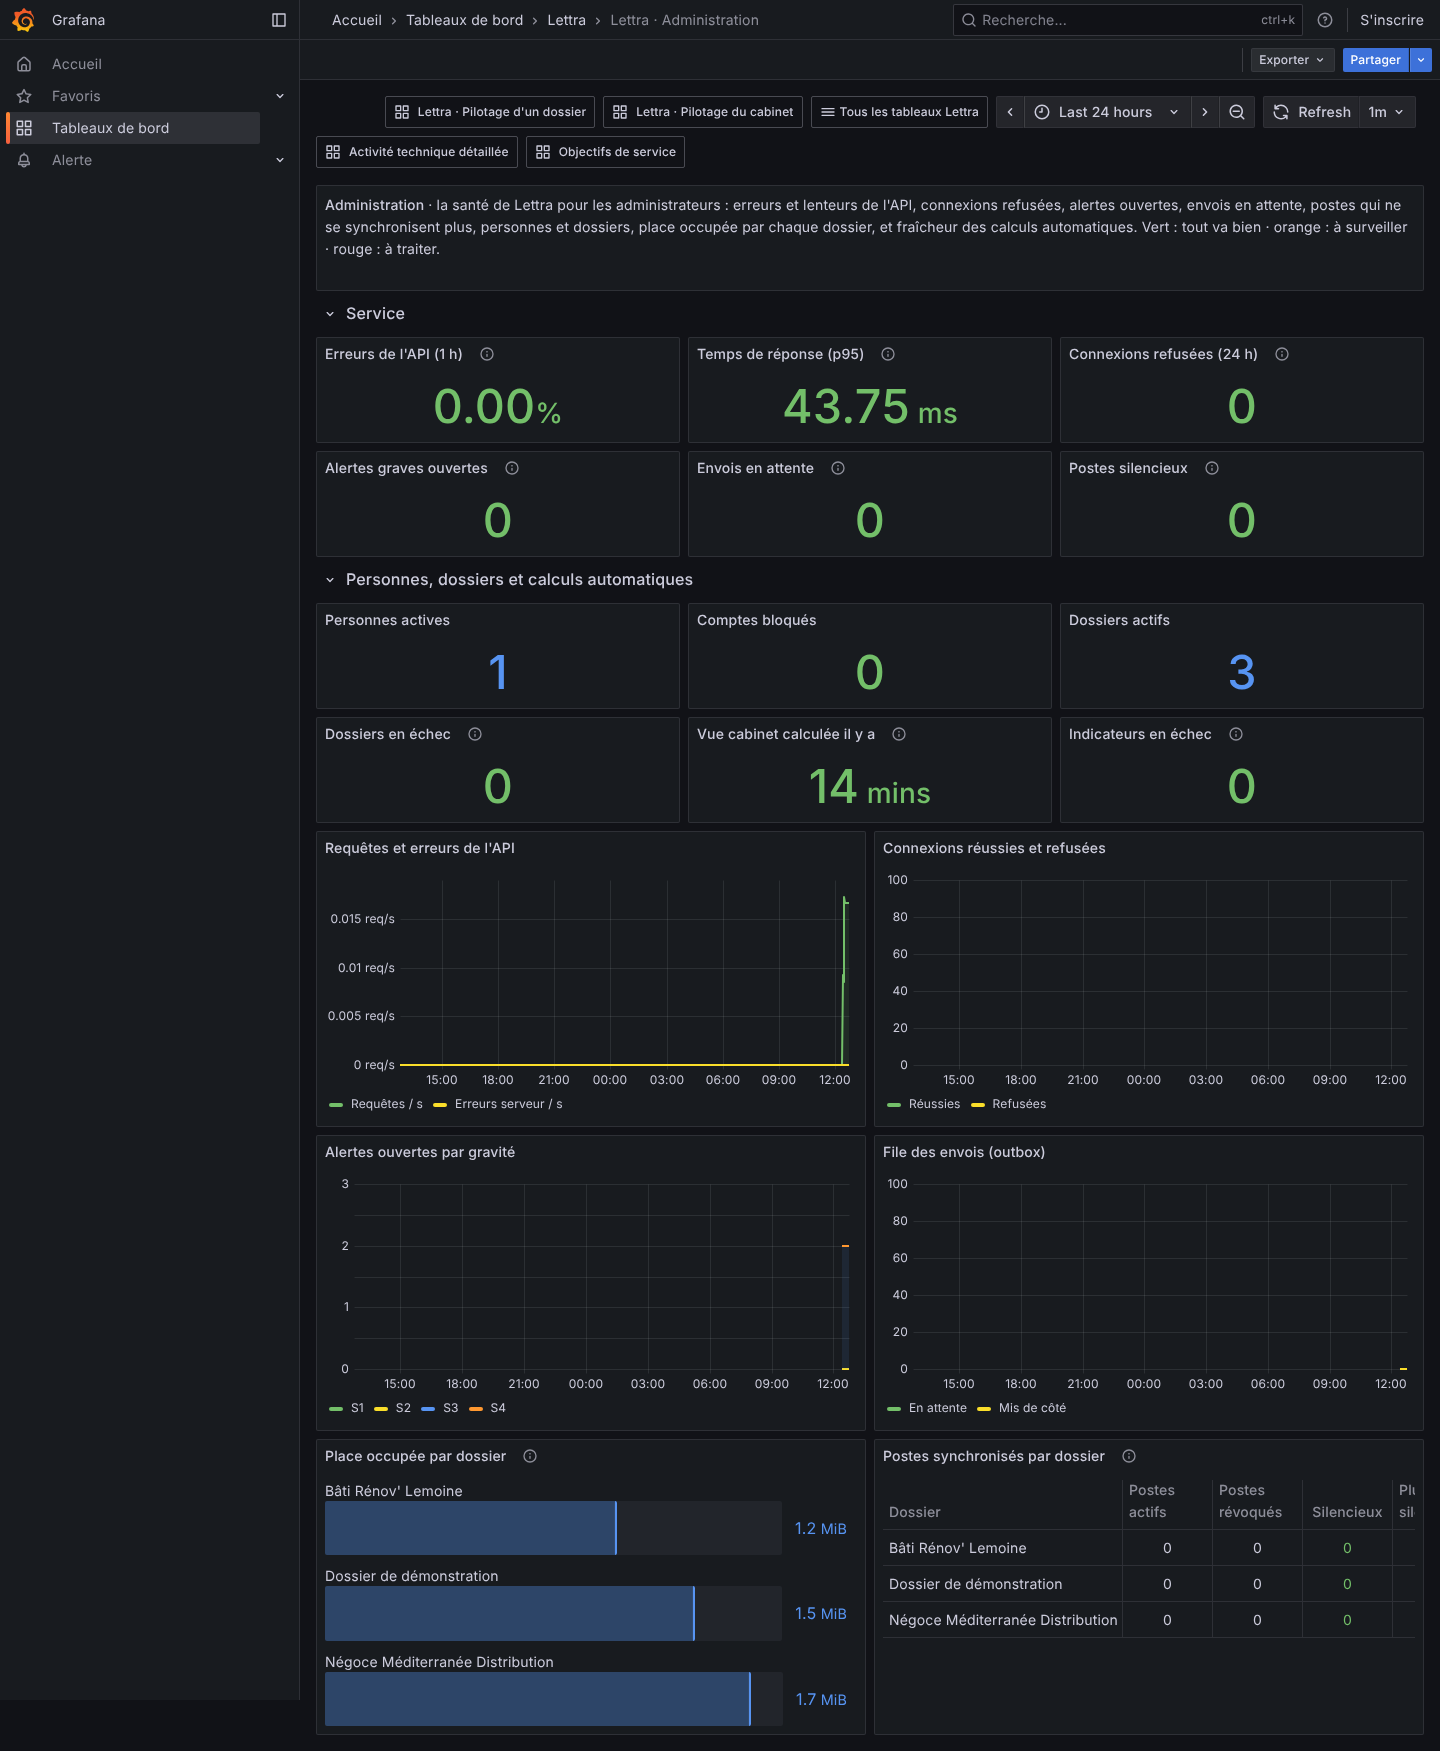
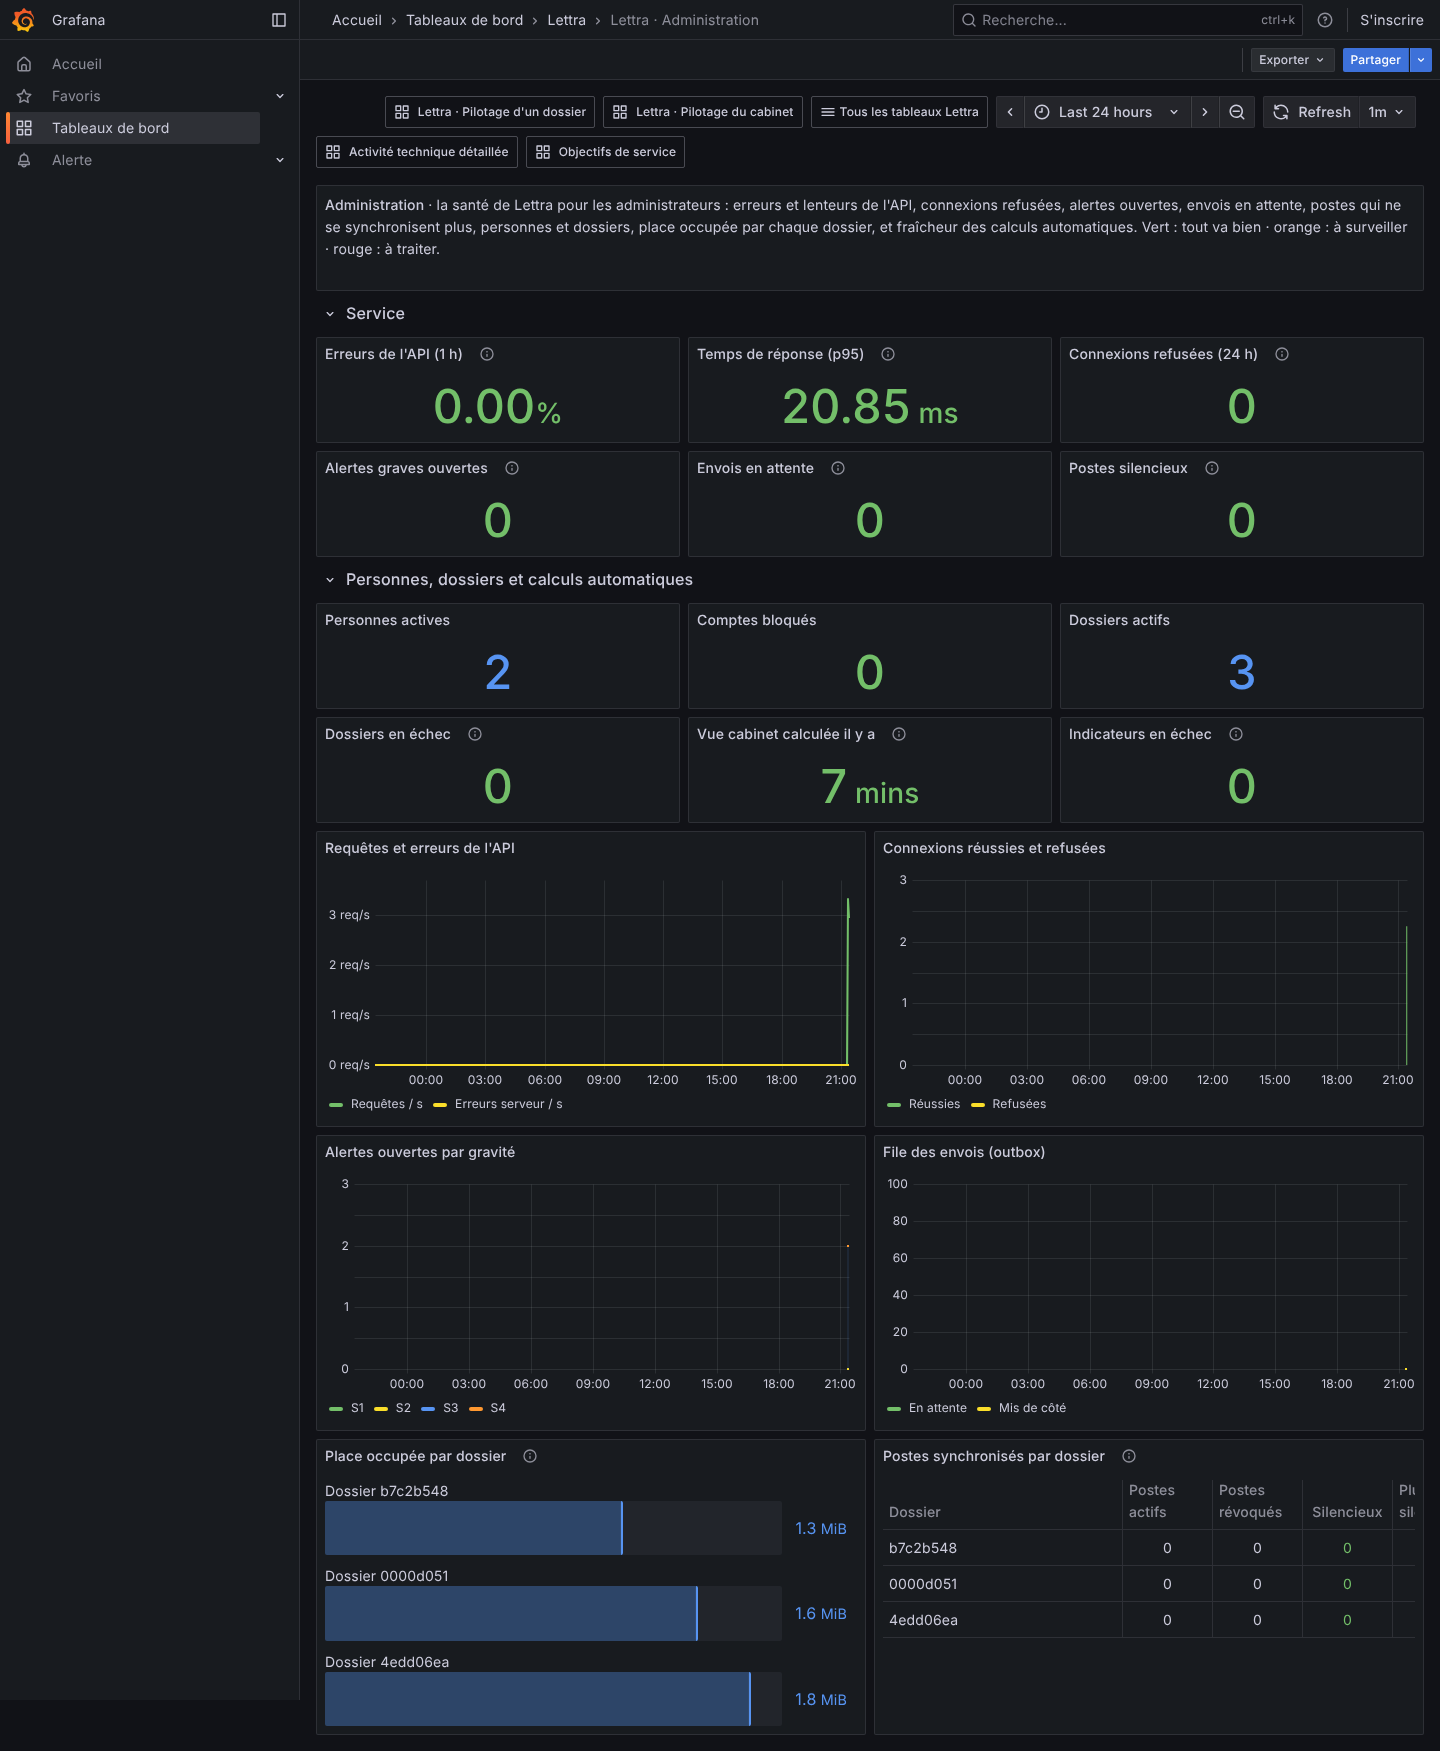
KPI : plus aucun nom de dossier ni de cabinet envoyé à Grafana
Le nom d'une entreprise individuelle est celui d'une personne (décision du
DPO, 24/10/2026). L'exposition Prometheus ne publie plus que dossier_id ; les
tableaux Grafana affichent une référence courte (8 derniers caractères de
l'identifiant, via label_replace), que le menu « Tableaux de bord » de Lettra
montre aussi sous chaque nom et retrouve à la recherche.

Claude-Session: https://claude.ai/code/session_0195ENUxDgLz9ctjxd3HeSJj

diff --git a/src/Presentation/Lettra.UI.Shared/wwwroot/lettra-pilotage.css b/src/Presentation/Lettra.UI.Shared/wwwroot/lettra-pilotage.css
@@ -31,6 +31,7 @@
 
 /* Le nom du dossier est l'en-tête de sa ligne : texte courant, pas le style des en-têtes de colonnes. */
 .lt-pilotage-table tbody th[scope="row"] { background: transparent; color: var(--color-fg); font-size: var(--text-sm); font-weight: var(--weight-medium); letter-spacing: normal; text-transform: none; text-align: left; overflow-wrap: anywhere; }
+.lt-pilotage-ref { display: block; color: var(--color-fg-muted); font-size: var(--text-xs); font-weight: var(--weight-regular); font-variant-numeric: tabular-nums; }
 .lt-pilotage-filters { flex-wrap: wrap; gap: var(--space-3); }
 .lt-pilotage-tools { display: flex; flex-wrap: wrap; align-items: center; gap: var(--space-2); width: 100%; }
 .lt-pilotage-tools .lettra-input { width: 100%; }

diff --git a/src/Core/Lettra.Application/Features/Kpi/KpiMetrics.cs b/src/Core/Lettra.Application/Features/Kpi/KpiMetrics.cs
@@ -39,7 +39,7 @@ public static class KpiMetrics
     public const string CollectionFailures = "lettra_kpi_collect_failures";
     public const string CollectedAt = "lettra_kpi_collected_at_seconds";
 
-    /// <summary>Étiquettes propres aux indicateurs (en plus de <c>dossier_id</c>, <c>dossier</c> et <c>cabinet</c>).</summary>
+    /// <summary>Étiquettes propres aux indicateurs (en plus de <c>dossier_id</c>).</summary>
     public static class Labels
     {
         /// <summary>Mois civil, <c>2026-10</c>.</summary>
@@ -57,7 +57,7 @@ public static class KpiMetrics
 
     /// <summary>
     /// Indicateurs de gestion des dossiers (ventes, devis, vue cabinet), retirés quand une cellule SaaS ne publie que
-    /// l'exploitation. Le nom du dossier (<see cref="DossierInfo"/>) reste : les tailles et les postes en ont besoin.
+    /// l'exploitation. La liste des dossiers suivis (<see cref="DossierInfo"/>) reste : les tailles et les postes en ont besoin.
     /// </summary>
     public static IReadOnlySet<string> Business { get; } = new HashSet<string>(StringComparer.Ordinal)
     {
@@ -69,7 +69,7 @@ public static class KpiMetrics
     /// <summary>Le texte d'aide de chaque indicateur publié (ligne <c># HELP</c> de Prometheus).</summary>
     public static IReadOnlyDictionary<string, string> Help { get; } = new Dictionary<string, string>(StringComparer.Ordinal)
     {
-        [DossierInfo] = "Dossier suivi (toujours 1) : relie l'identifiant au nom du dossier et du cabinet.",
+        [DossierInfo] = "Dossier suivi (toujours 1), désigné par son seul identifiant : aucun nom de dossier ni de cabinet.",
         [RevenueIndex] = "Chiffre d'affaires HT du mois, en indice : 100 = mois moyen des 12 derniers mois.",
         [InvoicesIssued] = "Factures et acomptes émis dans le mois (hors avoirs).",
         [RevenueTrend] = "Évolution du chiffre d'affaires HT des 3 derniers mois complets par rapport aux 3 mois d'avant.",

diff --git a/tests/Lettra.Observability.Tests/KpiExpositionTests.cs b/tests/Lettra.Observability.Tests/KpiExpositionTests.cs
@@ -12,7 +12,7 @@ public sealed class KpiExpositionTests
     private static readonly KpiDossier Named = new(Dossier, "Boulangerie \"Le Fournil\"\\Sud", "Cabinet de démonstration");
 
     [Fact]
-    public void Chaque_indicateur_porte_son_aide_son_type_et_le_nom_du_dossier()
+    public void Chaque_indicateur_porte_son_aide_son_type_et_l_identifiant_du_dossier_sans_aucun_nom()
     {
         KpiSnapshot snapshot = new(DateTimeOffset.UnixEpoch, [Named],
         [
@@ -27,10 +27,12 @@ public sealed class KpiExpositionTests
         string[] lines = text.Split('\n', StringSplitOptions.RemoveEmptyEntries);
         lines.Should().Contain("# TYPE lettra_kpi_dso_days gauge");
         lines.Should().Contain(l => l.StartsWith("# HELP lettra_kpi_dso_days Délai moyen", StringComparison.Ordinal));
-        lines.Should().Contain("lettra_kpi_dossier_info{dossier_id=\"0199e3a0-0000-7000-8000-00000000d051\",dossier=\"Boulangerie \\\"Le Fournil\\\"\\\\Sud\",cabinet=\"Cabinet de démonstration\"} 1");
-        lines.Should().Contain("lettra_kpi_dso_days{dossier_id=\"0199e3a0-0000-7000-8000-00000000d051\",dossier=\"Boulangerie \\\"Le Fournil\\\"\\\\Sud\"} 42.5");
+        lines.Should().Contain("lettra_kpi_dossier_info{dossier_id=\"0199e3a0-0000-7000-8000-00000000d051\"} 1");
+        lines.Should().Contain("lettra_kpi_dso_days{dossier_id=\"0199e3a0-0000-7000-8000-00000000d051\"} 42.5");
         lines.Should().Contain(l => l.StartsWith("lettra_kpi_revenue_index{", StringComparison.Ordinal) && l.EndsWith(",month=\"2026-10\"} 120", StringComparison.Ordinal));
         lines.Should().Contain("lettra_kpi_open_alerts{severity=\"S1\"} 2");
+        text.Should().NotContain("Fournil", "le nom d'une entreprise individuelle est celui d'une personne")
+            .And.NotContain("Cabinet de démonstration").And.NotContain("dossier=").And.NotContain("cabinet=");
         text.Should().EndWith("\n");
     }
 

diff --git a/tests/Lettra.UI.Tests/Pilotage/PilotageScreenTests.cs b/tests/Lettra.UI.Tests/Pilotage/PilotageScreenTests.cs
@@ -66,6 +66,9 @@ public sealed class PilotageScreenTests : BunitContext
 
         page.Find("#pilotage-search").Input("eole");
         Names(page).Should().Equal("Atelier Éole");
+        page.Find("#pilotage-search").Input("0B0002");
+        Names(page).Should().Equal(["Garage du Centre"], "la référence courte des tableaux Grafana retrouve aussi le dossier");
+        page.Find("#pilotage-dossiers tbody th .lt-pilotage-ref").TextContent.Should().Be("Réf. 000b0002");
         page.Find("#pilotage-search").Input("zzz");
         page.Find("#pilotage-dossiers-filtered").Should().NotBeNull();
         page.Find("#pilotage-search").Input(string.Empty);
@@ -99,7 +102,8 @@ public sealed class PilotageScreenTests : BunitContext
         page.Find("#pilotage-admin-nightly").GetAttribute("data-level").Should().Be("Critical");
 
         page.Find("#pilotage-admin-sort-size").Click();
-        page.Find("#pilotage-admin tbody th").TextContent.Should().Be("Garage du Centre");
+        page.Find("#pilotage-admin tbody th").ChildNodes[0].TextContent.Should().Be("Garage du Centre");
+        page.Find("#pilotage-admin tbody th .lt-pilotage-ref").TextContent.Should().Be("Réf. 000b0002");
     }
 
     [Fact]
@@ -182,7 +186,7 @@ public sealed class PilotageScreenTests : BunitContext
     }
 
     private static List<string> Names(IRenderedComponent<PilotagePage> page) =>
-        [.. page.FindAll("#pilotage-dossiers tbody th").Select(t => t.TextContent.Trim())];
+        [.. page.FindAll("#pilotage-dossiers tbody th").Select(t => t.ChildNodes[0].TextContent.Trim())];
 
     private sealed class FakePilotageGateway : IPilotageGateway
     {

diff --git a/src/Infrastructure/Lettra.Infrastructure.Observability/KpiExposition.cs b/src/Infrastructure/Lettra.Infrastructure.Observability/KpiExposition.cs
@@ -9,7 +9,9 @@ namespace Lettra.Infrastructure.Observability;
 /// <summary>
 /// Écrit une collecte d'indicateurs au format texte de Prometheus (version 0.0.4), lu par le Prometheus de la cellule.
 /// Ce chemin ne passe pas par le collecteur OpenTelemetry : il ne sort jamais vers un fournisseur hébergé. Seuls les
-/// indicateurs du catalogue (<see cref="KpiMetrics.Help"/>) sont écrits ; une valeur non finie est omise.
+/// indicateurs du catalogue (<see cref="KpiMetrics.Help"/>) sont écrits ; une valeur non finie est omise. Un dossier n'y
+/// est désigné que par son identifiant : ni son nom ni celui du cabinet (celui d'une entreprise individuelle est le nom
+/// d'une personne).
 /// </summary>
 public static class KpiExposition
 {
@@ -51,11 +53,6 @@ public static class KpiExposition
         if (dossier is not null)
         {
             labels.Add(("dossier_id", dossier.Id.Value.ToString()));
-            labels.Add(("dossier", dossier.Name));
-            if (sample.Metric == KpiMetrics.DossierInfo)
-            {
-                labels.Add(("cabinet", dossier.Cabinet));
-            }
         }
 
         if (sample.Label is { } own)

diff --git a/src/Presentation/Lettra.UI.Shared/Pages/Pilotage/PilotageDisplay.cs b/src/Presentation/Lettra.UI.Shared/Pages/Pilotage/PilotageDisplay.cs
@@ -43,6 +43,12 @@ public static class PilotageDisplay
     /// <summary>Un poste silencieux (plus de 7 jours sans synchronisation) est à vérifier.</summary>
     public static IndicatorLevelDto Silent(int count) => count > 0 ? IndicatorLevelDto.Warning : IndicatorLevelDto.Ok;
 
+    /// <summary>
+    /// Référence courte du dossier : les 8 derniers caractères de son identifiant, la même que dans les tableaux Grafana,
+    /// qui ne publient aucun nom de dossier.
+    /// </summary>
+    public static string Reference(Guid dossierId) => dossierId.ToString("N")[^8..];
+
     public static string Days(double? days, CultureInfo culture) =>
         days is double value ? string.Create(culture, $"{Math.Round(value, MidpointRounding.AwayFromZero):N0} j") : "—";
 

diff --git a/tests/Lettra.Api.Tests/KpiScrapeTests.cs b/tests/Lettra.Api.Tests/KpiScrapeTests.cs
@@ -57,7 +57,7 @@ public sealed class KpiScrapeTests
         response.StatusCode.Should().Be(HttpStatusCode.OK);
         response.Content.Headers.ContentType!.MediaType.Should().Be("text/plain");
         response.Content.Headers.ContentType.Parameters.Should().Contain(p => p.Name == "version" && p.Value == "0.0.4");
-        (await response.Content.ReadAsStringAsync()).Should().Contain("lettra_kpi_dso_days{dossier_id=\"").And.Contain(",dossier=\"Dossier test\"} 30");
+        (await response.Content.ReadAsStringAsync()).Should().Contain("lettra_kpi_dso_days{dossier_id=\"").And.NotContain("Dossier test");
     }
 
     [Fact]

diff --git a/src/Presentation/Lettra.UI.Shared/Pages/Pilotage/PilotagePage.razor.cs b/src/Presentation/Lettra.UI.Shared/Pages/Pilotage/PilotagePage.razor.cs
@@ -75,7 +75,8 @@ public sealed partial class PilotagePage
     ];
 
     private IReadOnlyList<DossierPilotageDto> DossierRows => ListSorting.Sort(
-        (_cabinet?.Dossiers ?? []).Where(d => PaletteMatcher.Score(d.Name, _query ?? string.Empty) > 0),
+        (_cabinet?.Dossiers ?? []).Where(d => PaletteMatcher.Score(d.Name, _query ?? string.Empty) > 0
+            || PilotageDisplay.Reference(d.DossierId).Contains((_query ?? string.Empty).Trim(), StringComparison.OrdinalIgnoreCase)),
         _dossierSort,
         new Dictionary<string, Func<DossierPilotageDto, object?>>(StringComparer.Ordinal)
         {

diff --git a/docs/indicateurs-grafana.md b/docs/indicateurs-grafana.md
@@ -64,7 +64,14 @@ réponse, connexions, outbox) et renvoie vers « Activité technique détaillée
 Les indicateurs publiés sont des **ratios, des délais, des indices et des compteurs**, jamais un montant en euros, un
 nom de client ou une donnée personnelle. Les montants restent dans la base du dossier (ADR-0003, annexe F) ; le
 chiffre d'affaires est donc donné en indice (100 = mois moyen) et le poids du premier client en pourcentage, sans dire
-qui il est. Seuls le nom du dossier et celui du cabinet apparaissent, pour que les tableaux soient lisibles.
+qui il est.
+
+**Aucun nom non plus.** Un dossier n'est désigné que par son identifiant (`dossier_id`) : ni son nom, ni celui du
+cabinet ne sont publiés, car le nom d'une entreprise individuelle est celui d'une personne (décision du DPO, 24/10/2026).
+Les tableaux affichent une **référence courte**, les 8 derniers caractères de l'identifiant (« Dossier 3f9a21bc »),
+calculée dans la requête (`label_replace`). La même référence apparaît sous le nom de chaque dossier dans le menu
+**Tableaux de bord** de Lettra, qui montre les noms selon les droits de chacun, et la recherche de « Mes dossiers » la
+retrouve.
 
 ## Comment les chiffres arrivent dans Grafana
 
@@ -108,8 +115,8 @@ qui ne passe pas par Prometheus, marche partout.
 ## Dans la démo
 
 Avec l'observabilité (voir le README), ouvrir http://localhost:3000, dossier **Lettra**. Le tableau du cabinet
-liste les trois dossiers de démonstration ; cliquer sur un nom ouvre son tableau, ou choisir le dossier en haut du
-tableau du dossier. Les courbes dans le temps se remplissent au fil des collectes (une par minute dans la démo, qui règle
+liste les trois dossiers de démonstration par leur référence courte ; cliquer sur une référence ouvre son tableau, ou
+choisir la référence en haut du tableau du dossier. Les courbes dans le temps se remplissent au fil des collectes (une par minute dans la démo, qui règle
 `Lettra__Kpi__RefreshInterval: "00:01:00"` ; toutes les 5 minutes par défaut).
 
 Vérifié dans la démo Docker, après la mise à jour d'une démo existante (les données de démonstration sont conservées) :

diff --git a/docs/tableaux-de-bord.md b/docs/tableaux-de-bord.md
@@ -29,6 +29,9 @@ Lettra, et c'est le serveur qui filtre, dossier par dossier, avec les mêmes rè
   permission demandée. Un dossier d'un autre cabinet, ou d'un groupe auquel il n'a pas accès, n'est jamais envoyé.
 - Un compte suspendu ne reçoit aucun dossier.
 - Aucun montant, aucun nom de client : des ratios, des délais, des indices et des compteurs, comme dans Grafana.
+- Les noms de dossier restent dans Lettra. Grafana ne reçoit que l'identifiant de chaque dossier et affiche sa
+  **référence courte** (8 caractères) ; les onglets « Mes dossiers » et « Administration » la montrent sous chaque nom
+  (« Réf. 3f9a21bc ») pour faire le lien, et la recherche la retrouve.
 
 Le réglage `Lettra:Kpi:BusinessIndicators=false` ne touche que la publication vers Prometheus : dans Lettra, chacun
 garde les indicateurs de gestion de ses propres dossiers.
